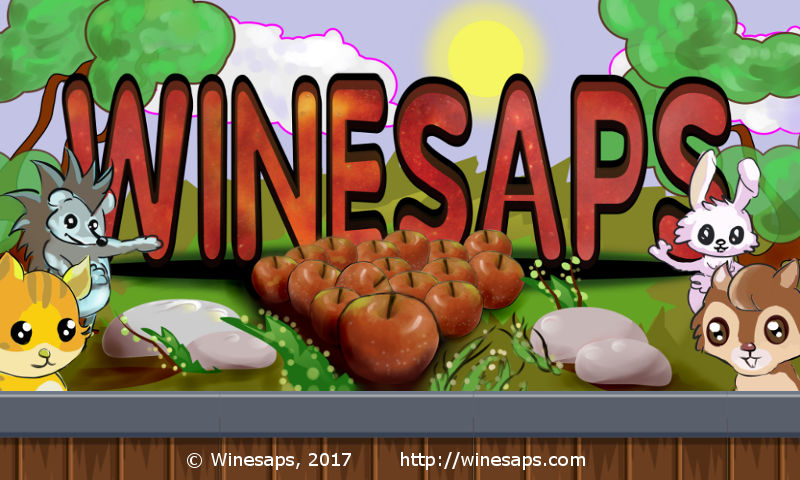
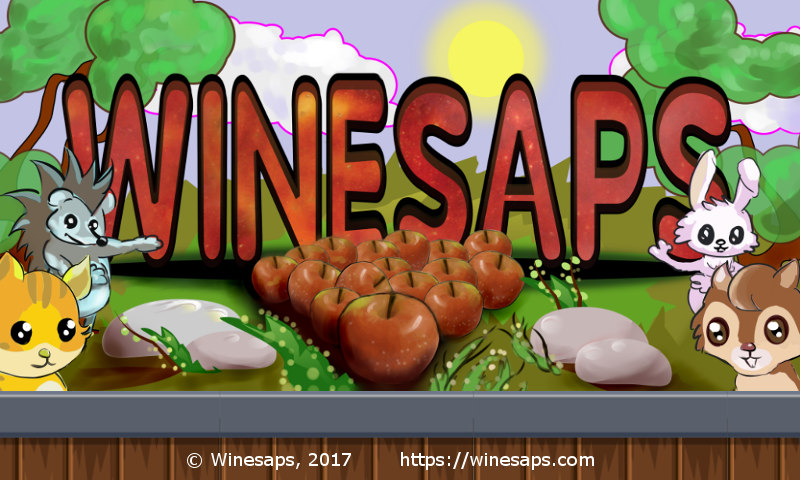
Added "s" to http!

Changed region(s): [[0.5312, 0.9375, 0.75, 0.9688], [0.9062, 0.25, 0.9375, 0.2812]]

diff --git a/core/src/ru/mitrakov/self/rush/Winesaps.java b/core/src/ru/mitrakov/self/rush/Winesaps.java
@@ -25,7 +25,7 @@ public class Winesaps extends Game {
     public static final int HEIGHT = 480;
     public static final int VERSION = (1 << 16) | 1; // 1.0.1
     public static final String VERSION_STR = "1.0.1";
-    public static final String URL = "http://winesaps.com";
+    public static final String URL = "https://winesaps.com";
 
     public static final String HOST = "winesaps.ru";
     public static final int PORT = 33996;

diff --git a/README.md b/README.md
@@ -1,11 +1,11 @@
 # WINESAPS
 Winesaps client
 
-![Winesaps](http://winesaps.com/winesaps.png)
+![Winesaps](https://winesaps.com/winesaps.png)
 
-**Winesaps client** is an official open source GUI for **Winesaps** - online multiplayer game for Android devices and desktops.
+**Winesaps client** is an official open source GUI for **Winesaps** - online multiplayer game for Windows, Linux and Android.
 
-Web page: <http://winesaps.com>
+Web page: <https://winesaps.com>
 
 ## Information ##
 Tools:
@@ -13,7 +13,7 @@ Tools:
 * Client is written in [Java](https://www.java.com) with [LibGDX](https://libgdx.badlogicgames.com) game library
 
 Supported platforms:
-* Android (v.2.2.x+)
+* Android (v.2.2+)
 * Windows (x86, x64)
 * Linux (x86, x64)
 
